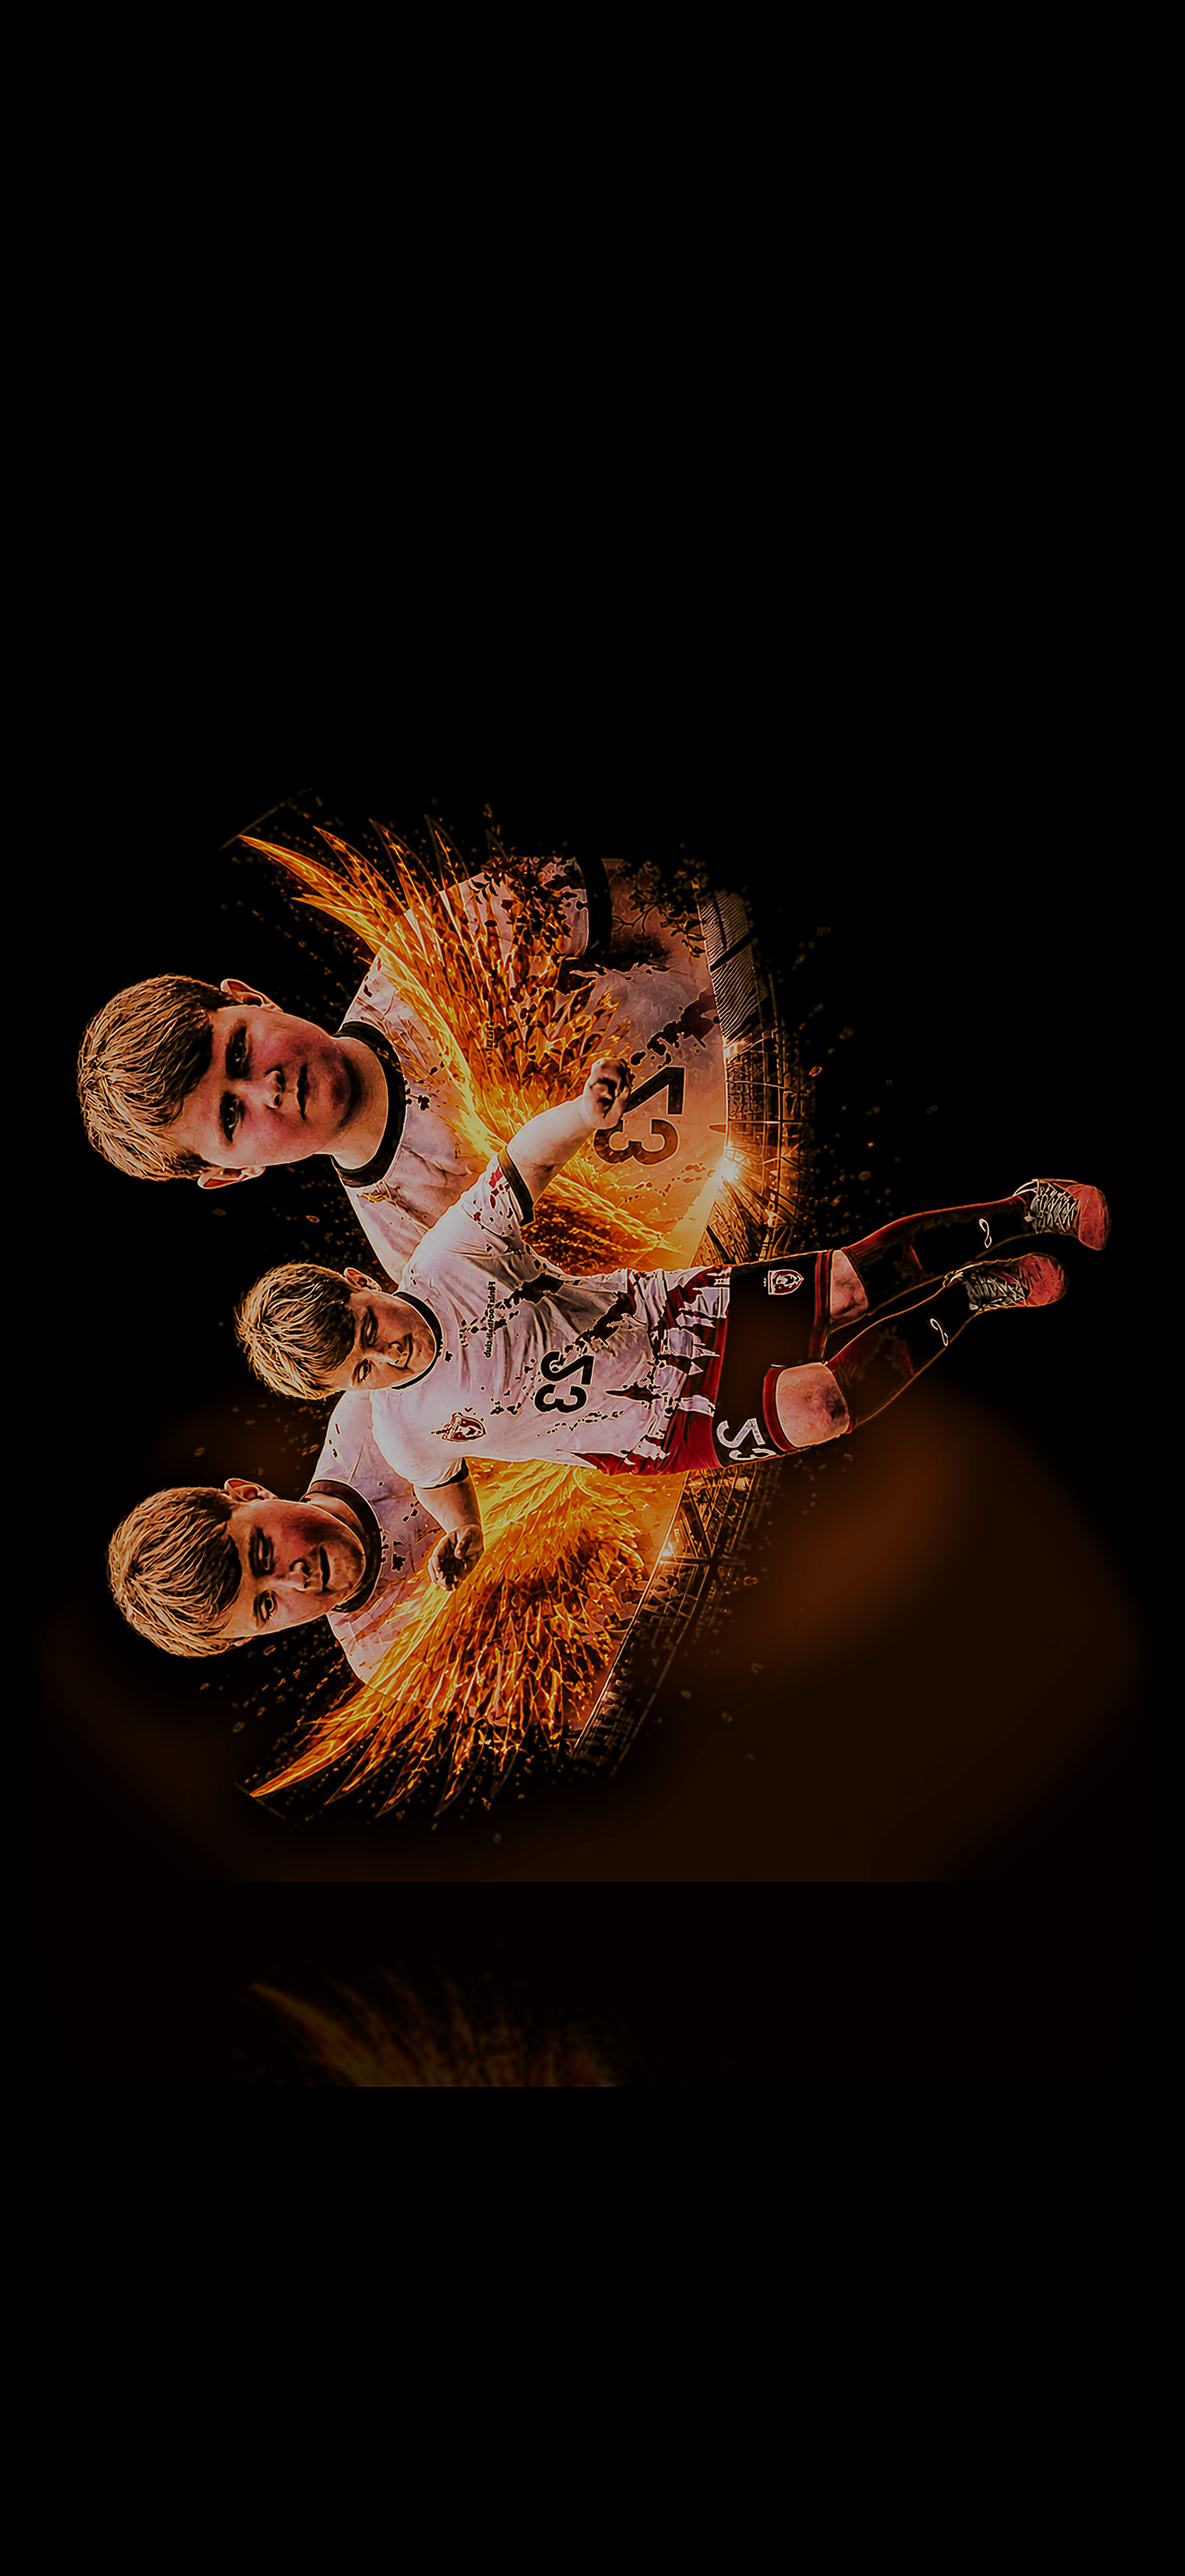
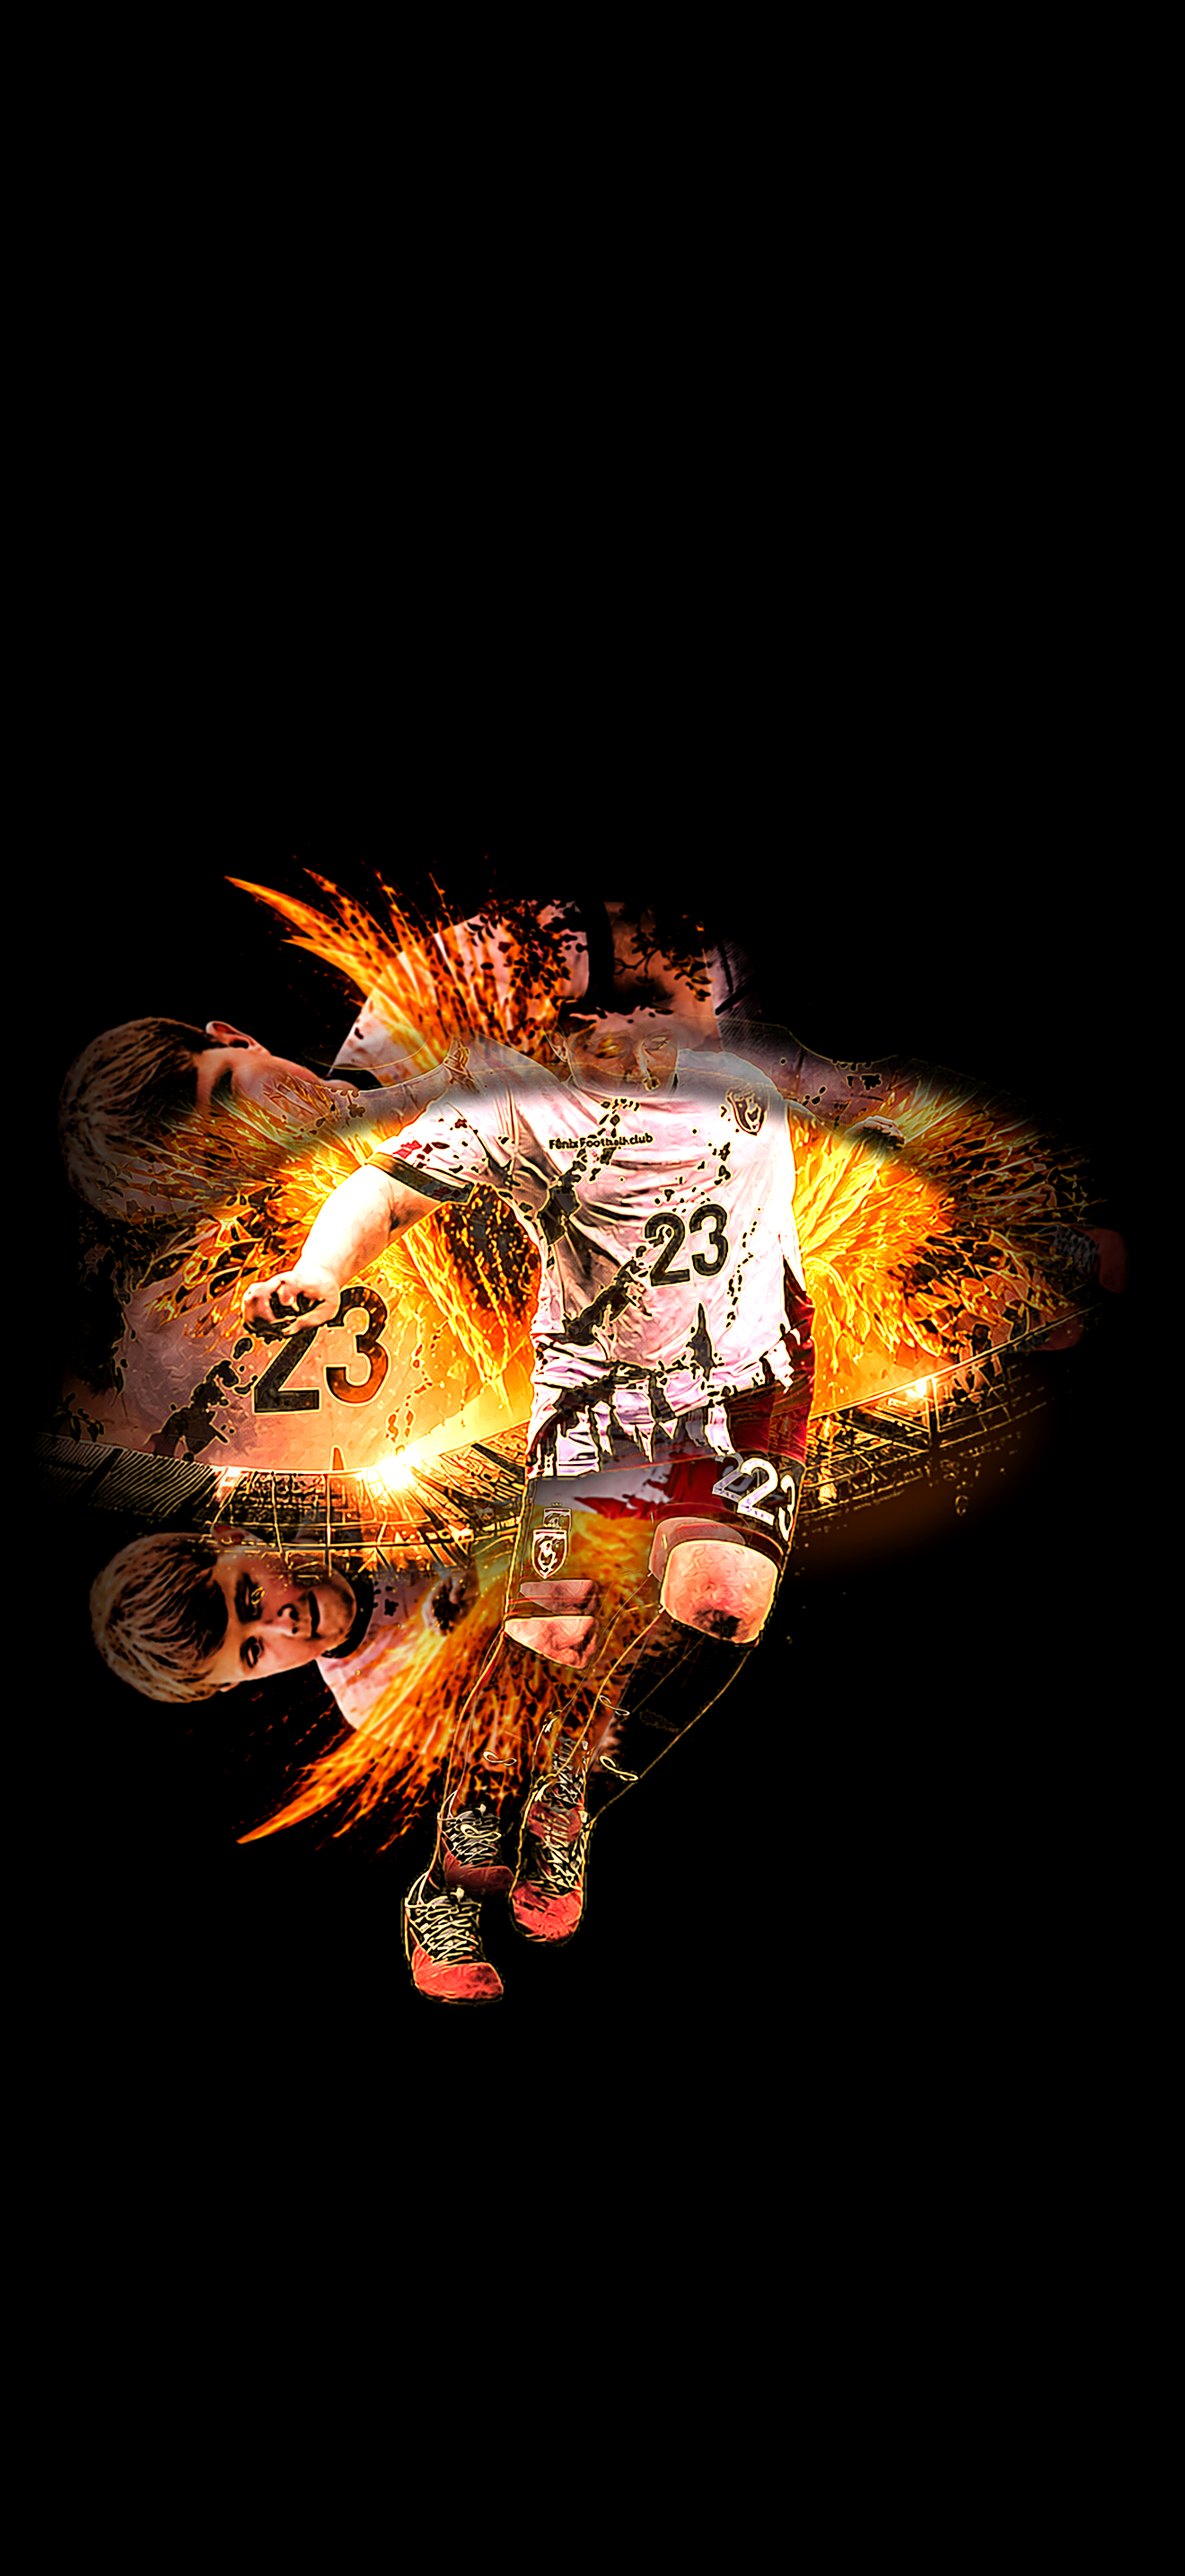
Breakout 3D effect: player pops out of phone screen
Separate recessed background, forward fire burst, and enlarged foreground
player layer with contact shadows and phone bezel vignette.

Changed region(s): [[0.0311, 0.3103, 0.9629, 0.8379]]

diff --git a/fenix-football-wallpaper/enhance_original.py b/fenix-football-wallpaper/enhance_original.py
@@ -31,27 +31,19 @@ def find_original() -> Path:
 
 
 def luminance_alpha(rgba: Image.Image, threshold: int = 18) -> Image.Image:
-    """Build a soft alpha matte from dark-background artwork."""
     rgb = np.array(rgba.convert("RGB"), dtype=np.float32)
     lum = 0.2126 * rgb[:, :, 0] + 0.7152 * rgb[:, :, 1] + 0.0722 * rgb[:, :, 2]
     alpha = np.clip((lum - threshold) * 4.0, 0, 255).astype(np.uint8)
-    alpha = Image.fromarray(alpha, mode="L").filter(ImageFilter.GaussianBlur(1.2))
-    return alpha
+    return Image.fromarray(alpha, mode="L").filter(ImageFilter.GaussianBlur(1.2))
 
 
-def perspective_tilt(img: Image.Image, strength: float = 0.028) -> Image.Image:
-    """Subtle 3D tilt — bottom edge closer to viewer."""
+def perspective_tilt(img: Image.Image, strength: float = 0.055) -> Image.Image:
+    """Strong tilt — bottom edge leaps toward the viewer."""
     w, h = img.size
     dx = int(w * strength)
-    dy = int(h * strength * 0.35)
-    # Narrower at top, wider at bottom.
-    quad = (dx, dy, w - dx, dy, w, h, 0, h)
-    return img.transform(
-        (w, h),
-        Image.Transform.QUAD,
-        quad,
-        resample=Image.Resampling.BICUBIC,
-    )
+    dy = int(h * strength * 0.4)
+    quad = (dx, dy, w - dx, dy, w + dx // 2, h, -dx // 2, h)
+    return img.transform((w + dx, h), Image.Transform.QUAD, quad, resample=Image.Resampling.BICUBIC)
 
 
 def drop_shadow(layer: Image.Image, offset: tuple[int, int], blur: int, opacity: int) -> Image.Image:
@@ -65,133 +57,179 @@ def drop_shadow(layer: Image.Image, offset: tuple[int, int], blur: int, opacity:
     return canvas
 
 
-def floor_reflection(layer: Image.Image, fade: float = 0.28) -> Image.Image:
-    """Soft mirror reflection beneath the graphic."""
-    w, h = layer.size
-    reflected = ImageOps.flip(layer)
-    mask = Image.new("L", (w, h), 0)
-    draw = ImageDraw.Draw(mask)
-    for y in range(h):
-        t = y / max(h - 1, 1)
-        draw.line([(0, y), (w, y)], fill=int(255 * fade * (1 - t**1.6)))
-    reflected.putalpha(ImageChops.multiply(reflected.split()[-1], mask))
-    return reflected.filter(ImageFilter.GaussianBlur(2.5))
-
-
-def rim_light(layer: Image.Image) -> Image.Image:
-    """Warm edge highlight for pop-out depth."""
+def rim_light(layer: Image.Image, strength: float = 0.55) -> Image.Image:
     rgb = layer.convert("RGB")
     edges = rgb.filter(ImageFilter.FIND_EDGES).convert("L")
-    edges = ImageEnhance.Contrast(edges).enhance(2.2)
-    edges = edges.filter(ImageFilter.GaussianBlur(1.5))
-    warm = Image.new("RGBA", layer.size, (255, 170, 60, 0))
-    warm.putalpha(edges.point(lambda p: min(int(p * 0.55), 110)))
+    edges = ImageEnhance.Contrast(edges).enhance(2.4)
+    edges = edges.filter(ImageFilter.GaussianBlur(1.2))
+    warm = Image.new("RGBA", layer.size, (255, 200, 90, 0))
+    warm.putalpha(edges.point(lambda p: min(int(p * strength), 140)))
     return Image.alpha_composite(layer, warm)
 
 
-def depth_glow(width: int, height: int, cx: int, cy: int) -> Image.Image:
-    """Radial light pool under the artwork."""
+def foreground_mask(w: int, h: int) -> Image.Image:
+    """Mask the running player + lower fire — the part that breaks out of the screen."""
+    mask = Image.new("L", (w, h), 0)
+    draw = ImageDraw.Draw(mask)
+    # Torso, legs, and embers at the bottom of the circle.
+    draw.ellipse((w * 0.14, h * 0.38, w * 0.86, h * 0.98), fill=255)
+    draw.ellipse((w * 0.28, h * 0.48, w * 0.72, h * 1.02), fill=255)
+    return mask.filter(ImageFilter.GaussianBlur(10))
+
+
+def burst_mask(w: int, h: int) -> Image.Image:
+    """Fiery wings + sparks that spill forward."""
+    mask = Image.new("L", (w, h), 0)
+    draw = ImageDraw.Draw(mask)
+    draw.ellipse((w * 0.02, h * 0.30, w * 0.98, h * 0.82), fill=200)
+    draw.ellipse((w * 0.18, h * 0.52, w * 0.82, h * 0.95), fill=255)
+    return mask.filter(ImageFilter.GaussianBlur(14))
+
+
+def scale_from_bottom_center(layer: Image.Image, scale: float) -> tuple[Image.Image, tuple[int, int]]:
+    w, h = layer.size
+    nw, nh = max(1, int(w * scale)), max(1, int(h * scale))
+    scaled = layer.resize((nw, nh), Image.Resampling.LANCZOS)
+    ox = (w - nw) // 2
+    oy = h - nh
+    return scaled, (ox, oy)
+
+
+def phone_screen_vignette(width: int, height: int) -> Image.Image:
+    """Dark phone bezels — content breaks out through the center."""
+    vignette = Image.new("RGBA", (width, height), (0, 0, 0, 0))
+    draw = ImageDraw.Draw(vignette)
+    for i, alpha in enumerate(range(0, 200, 8)):
+        inset = i * 3
+        draw.rectangle(
+            (inset, inset, width - inset, height - inset),
+            outline=(0, 0, 0, alpha),
+            width=8,
+        )
+    # Stronger side and bottom bezels (phone in hand).
+    grad = Image.new("L", (width, height), 0)
+    gdraw = ImageDraw.Draw(grad)
+    for x in range(width):
+        t = min(x, width - x) / (width * 0.22)
+        t = max(0.0, min(1.0, t))
+        gdraw.line([(x, 0), (x, height)], fill=int(255 * (1 - t**1.3)))
+    for y in range(height):
+        t = (height - y) / (height * 0.18)
+        t = max(0.0, min(1.0, t))
+        row = grad.crop((0, y, width, y + 1))
+        boosted = row.point(lambda p: max(p, int(255 * (1 - t**1.1) * 0.85)))
+        grad.paste(boosted, (0, y))
+    vignette.putalpha(grad.filter(ImageFilter.GaussianBlur(22)))
+    return vignette
+
+
+def screen_surface_glow(width: int, height: int, cx: int, cy: int) -> Image.Image:
     glow = Image.new("RGBA", (width, height), (0, 0, 0, 0))
     draw = ImageDraw.Draw(glow)
-    for i, alpha in enumerate(range(90, 0, -6)):
-        r = 120 + i * 38
-        color = (255, 120, 30, alpha)
-        draw.ellipse((cx - r, cy - r, cx + r, cy + r), fill=color)
-    return glow.filter(ImageFilter.GaussianBlur(18))
+    draw.ellipse((cx - 520, cy - 120, cx + 520, cy + 280), fill=(255, 110, 25, 70))
+    draw.ellipse((cx - 300, cy + 40, cx + 300, cy + 220), fill=(255, 60, 10, 90))
+    return glow.filter(ImageFilter.GaussianBlur(28))
 
 
-def local_relief(layer: Image.Image) -> Image.Image:
-    """Subtle high-pass relief to add surface depth without changing identity."""
-    rgb = layer.convert("RGB")
-    blur = rgb.filter(ImageFilter.GaussianBlur(3))
-    detail = ImageChops.subtract(rgb, blur)
-    detail = ImageEnhance.Contrast(detail).enhance(1.8)
-    relief = Image.new("RGBA", layer.size, (255, 220, 180, 0))
-    relief.putalpha(detail.convert("L").point(lambda p: min(int(p * 0.35), 70)))
-    return Image.alpha_composite(layer, relief)
-
-
-def apply_depth_3d(scaled: Image.Image) -> Image.Image:
-    """Turn flat artwork into a floating 3D card while preserving the original photo."""
+def apply_breakout_3d(scaled: Image.Image) -> Image.Image:
+    """Make the player burst out of the phone screen toward the viewer."""
     rgba = scaled.convert("RGBA")
     alpha = luminance_alpha(rgba)
     rgba.putalpha(alpha)
 
-    tilted = perspective_tilt(rgba)
-    lit = rim_light(local_relief(tilted))
+    w, h = rgba.size
+    pad = int(max(w, h) * 0.28)
+    stage_w, stage_h = w + pad * 2, h + pad * 2 + int(h * 0.14)
+    stage = Image.new("RGBA", (stage_w, stage_h), (0, 0, 0, 0))
 
-    w, h = lit.size
-    pad = int(max(w, h) * 0.18)
-    stage = Image.new("RGBA", (w + pad * 2, h + pad * 2), (0, 0, 0, 0))
+    # --- Layer 1: recessed "inside the screen" artwork ---
+    recessed = rgba.copy()
+    recessed.putalpha(alpha)
+    recessed = ImageEnhance.Brightness(recessed).enhance(0.88)
+    recessed_rgb = recessed.convert("RGB").filter(ImageFilter.GaussianBlur(1.6))
+    recessed = Image.merge("RGBA", (*recessed_rgb.split(), recessed.split()[-1]))
+    recessed = perspective_tilt(recessed, strength=0.022)
+    rw, rh = recessed.size
+    rx = (stage_w - rw) // 2
+    ry = pad + int(h * 0.02)
+    stage.alpha_composite(recessed, (rx, ry))
 
-    cx, cy = (w + pad * 2) // 2, h + pad - int(h * 0.04)
-    stage.alpha_composite(depth_glow(stage.width, stage.height, cx, cy))
+    # Screen-plane shadow (cast onto the phone surface behind the pop-out figure).
+    screen_shadow = Image.new("RGBA", (stage_w, stage_h), (0, 0, 0, 0))
+    sdraw = ImageDraw.Draw(screen_shadow)
+    sx = stage_w // 2
+    sy = ry + rh - int(rh * 0.08)
+    for i, a in enumerate(range(120, 0, -5)):
+        rx_e = 80 + i * 16
+        ry_e = 24 + i * 7
+        sdraw.ellipse((sx - rx_e, sy - ry_e, sx + rx_e, sy + ry_e), fill=(0, 0, 0, a))
+    stage.alpha_composite(screen_shadow.filter(ImageFilter.GaussianBlur(10)))
 
-    # Layered shadows = depth.
-    for blur, offset, opacity in ((36, (0, 22), 130), (20, (0, 12), 95), (10, (0, 5), 65)):
-        stage.alpha_composite(drop_shadow(lit, offset, blur, opacity), (pad, pad))
+    # --- Layer 2: fire burst popping forward ---
+    burst = Image.new("RGBA", (w, h), (0, 0, 0, 0))
+    bmask = burst_mask(w, h)
+    burst.paste(rgba, (0, 0), ImageChops.multiply(alpha, bmask))
+    burst_big, (box, boy) = scale_from_bottom_center(burst, 1.14)
+    bx = pad + box
+    by = pad + boy + int(h * 0.04)
+    for blur, off, op in ((28, (0, 16), 120), (14, (0, 8), 80)):
+        stage.alpha_composite(drop_shadow(burst_big, off, blur, op), (bx, by))
+    stage.alpha_composite(rim_light(burst_big, 0.45), (bx, by))
 
-    reflection = floor_reflection(lit, fade=0.16)
-    stage.alpha_composite(reflection, (pad, pad + h + int(h * 0.015)))
+    # --- Layer 3: running player breaking OUT toward viewer ---
+    fg = Image.new("RGBA", (w, h), (0, 0, 0, 0))
+    fmask = foreground_mask(w, h)
+    fg.paste(rgba, (0, 0), ImageChops.multiply(alpha, fmask))
+    fg_big, (fox, foy) = scale_from_bottom_center(fg, 1.38)
+    fg_big = rim_light(fg_big, 0.75)
+    fg_big = ImageEnhance.Contrast(fg_big).enhance(1.12)
+    fg_big = ImageEnhance.Sharpness(fg_big).enhance(1.35)
+    fx = pad + fox
+    fy = pad + foy + int(h * 0.14)
 
-    stage.alpha_composite(lit, (pad, pad))
+    # Deep contact shadow where figure lifts off the screen.
+    for blur, off, op in ((48, (0, 28), 170), (24, (0, 14), 120), (10, (0, 4), 90)):
+        stage.alpha_composite(drop_shadow(fg_big, off, blur, op), (fx, fy))
 
-    # Inner vignette on the card for volume.
-    vignette = Image.new("L", (w, h), 255)
-    draw = ImageDraw.Draw(vignette)
-    draw.ellipse((-w * 0.08, -h * 0.08, w * 1.08, h * 1.08), fill=0)
-    vignette = vignette.filter(ImageFilter.GaussianBlur(28))
-    dark = Image.new("RGBA", (w, h), (0, 0, 0, 0))
-    dark.putalpha(vignette.point(lambda p: int((255 - p) * 0.35)))
-    card = stage.crop((pad, pad, pad + w, pad + h))
-    card = Image.alpha_composite(card, dark)
-    stage.paste(card, (pad, pad), card)
+    stage.alpha_composite(fg_big, (fx, fy))
 
     return stage
 
 
 def build_portrait_canvas(src: Image.Image) -> Image.Image:
-    """Center the 3D-enhanced graphic on a portrait canvas sized for Pro Max."""
     src = src.convert("RGBA")
     sw, sh = src.size
 
-    max_w = int(TARGET_W * 0.96)
-    max_h = int(TARGET_H * 0.86)
+    max_w = int(TARGET_W * 0.98)
+    max_h = int(TARGET_H * 0.82)
     scale = min(max_w / sw, max_h / sh)
     new_size = (max(1, int(sw * scale)), max(1, int(sh * scale)))
     scaled = src.resize(new_size, Image.Resampling.LANCZOS)
 
-    depth_layer = apply_depth_3d(scaled)
+    breakout = apply_breakout_3d(scaled)
 
-    rgb_src = src.convert("RGB")
-    corner = rgb_src.getpixel((min(10, sw - 1), min(10, sh - 1)))
-    if sum(corner) > 40:
-        corner = (0, 0, 0)
-    canvas = Image.new("RGBA", (TARGET_W, TARGET_H), corner + (255,))
+    canvas = Image.new("RGBA", (TARGET_W, TARGET_H), (0, 0, 0, 255))
 
-    # Subtle atmospheric glow behind the card only.
-    atm = Image.new("RGBA", (TARGET_W, TARGET_H), (0, 0, 0, 0))
-    draw = ImageDraw.Draw(atm)
-    glow_y = int(TARGET_H * 0.55)
-    draw.ellipse(
-        (TARGET_W // 2 - 420, glow_y - 180, TARGET_W // 2 + 420, glow_y + 320),
-        fill=(255, 100, 25, 45),
-    )
-    atm = atm.filter(ImageFilter.GaussianBlur(35))
-    canvas = Image.alpha_composite(canvas, atm)
+    # Light pool on the phone "screen" behind the breakout.
+    glow_y = int(TARGET_H * 0.52)
+    canvas.alpha_composite(screen_surface_glow(TARGET_W, TARGET_H, TARGET_W // 2, glow_y))
 
-    x = (TARGET_W - depth_layer.width) // 2
-    y = int(TARGET_H * 0.08) + (max_h - depth_layer.height) // 2
-    canvas.alpha_composite(depth_layer, (x, y))
+    # Place lower on screen so the figure emerges toward the viewer's hands.
+    x = (TARGET_W - breakout.width) // 2
+    y = int(TARGET_H * 0.18) + (max_h - breakout.height) // 2
+    canvas.alpha_composite(breakout, (x, y))
+
+    # Phone bezel — frame the screen, subject breaks through center.
+    canvas = Image.alpha_composite(canvas, phone_screen_vignette(TARGET_W, TARGET_H))
     return canvas.convert("RGB")
 
 
 def enhance(img: Image.Image) -> Image.Image:
-    img = ImageEnhance.Contrast(img).enhance(1.1)
-    img = ImageEnhance.Color(img).enhance(1.08)
-    img = ImageEnhance.Brightness(img).enhance(1.02)
-    img = ImageEnhance.Sharpness(img).enhance(1.25)
-    img = img.filter(ImageFilter.UnsharpMask(radius=1.4, percent=125, threshold=2))
+    img = ImageEnhance.Contrast(img).enhance(1.12)
+    img = ImageEnhance.Color(img).enhance(1.1)
+    img = ImageEnhance.Brightness(img).enhance(1.03)
+    img = ImageEnhance.Sharpness(img).enhance(1.3)
+    img = img.filter(ImageFilter.UnsharpMask(radius=1.6, percent=135, threshold=2))
     return img
 
 
